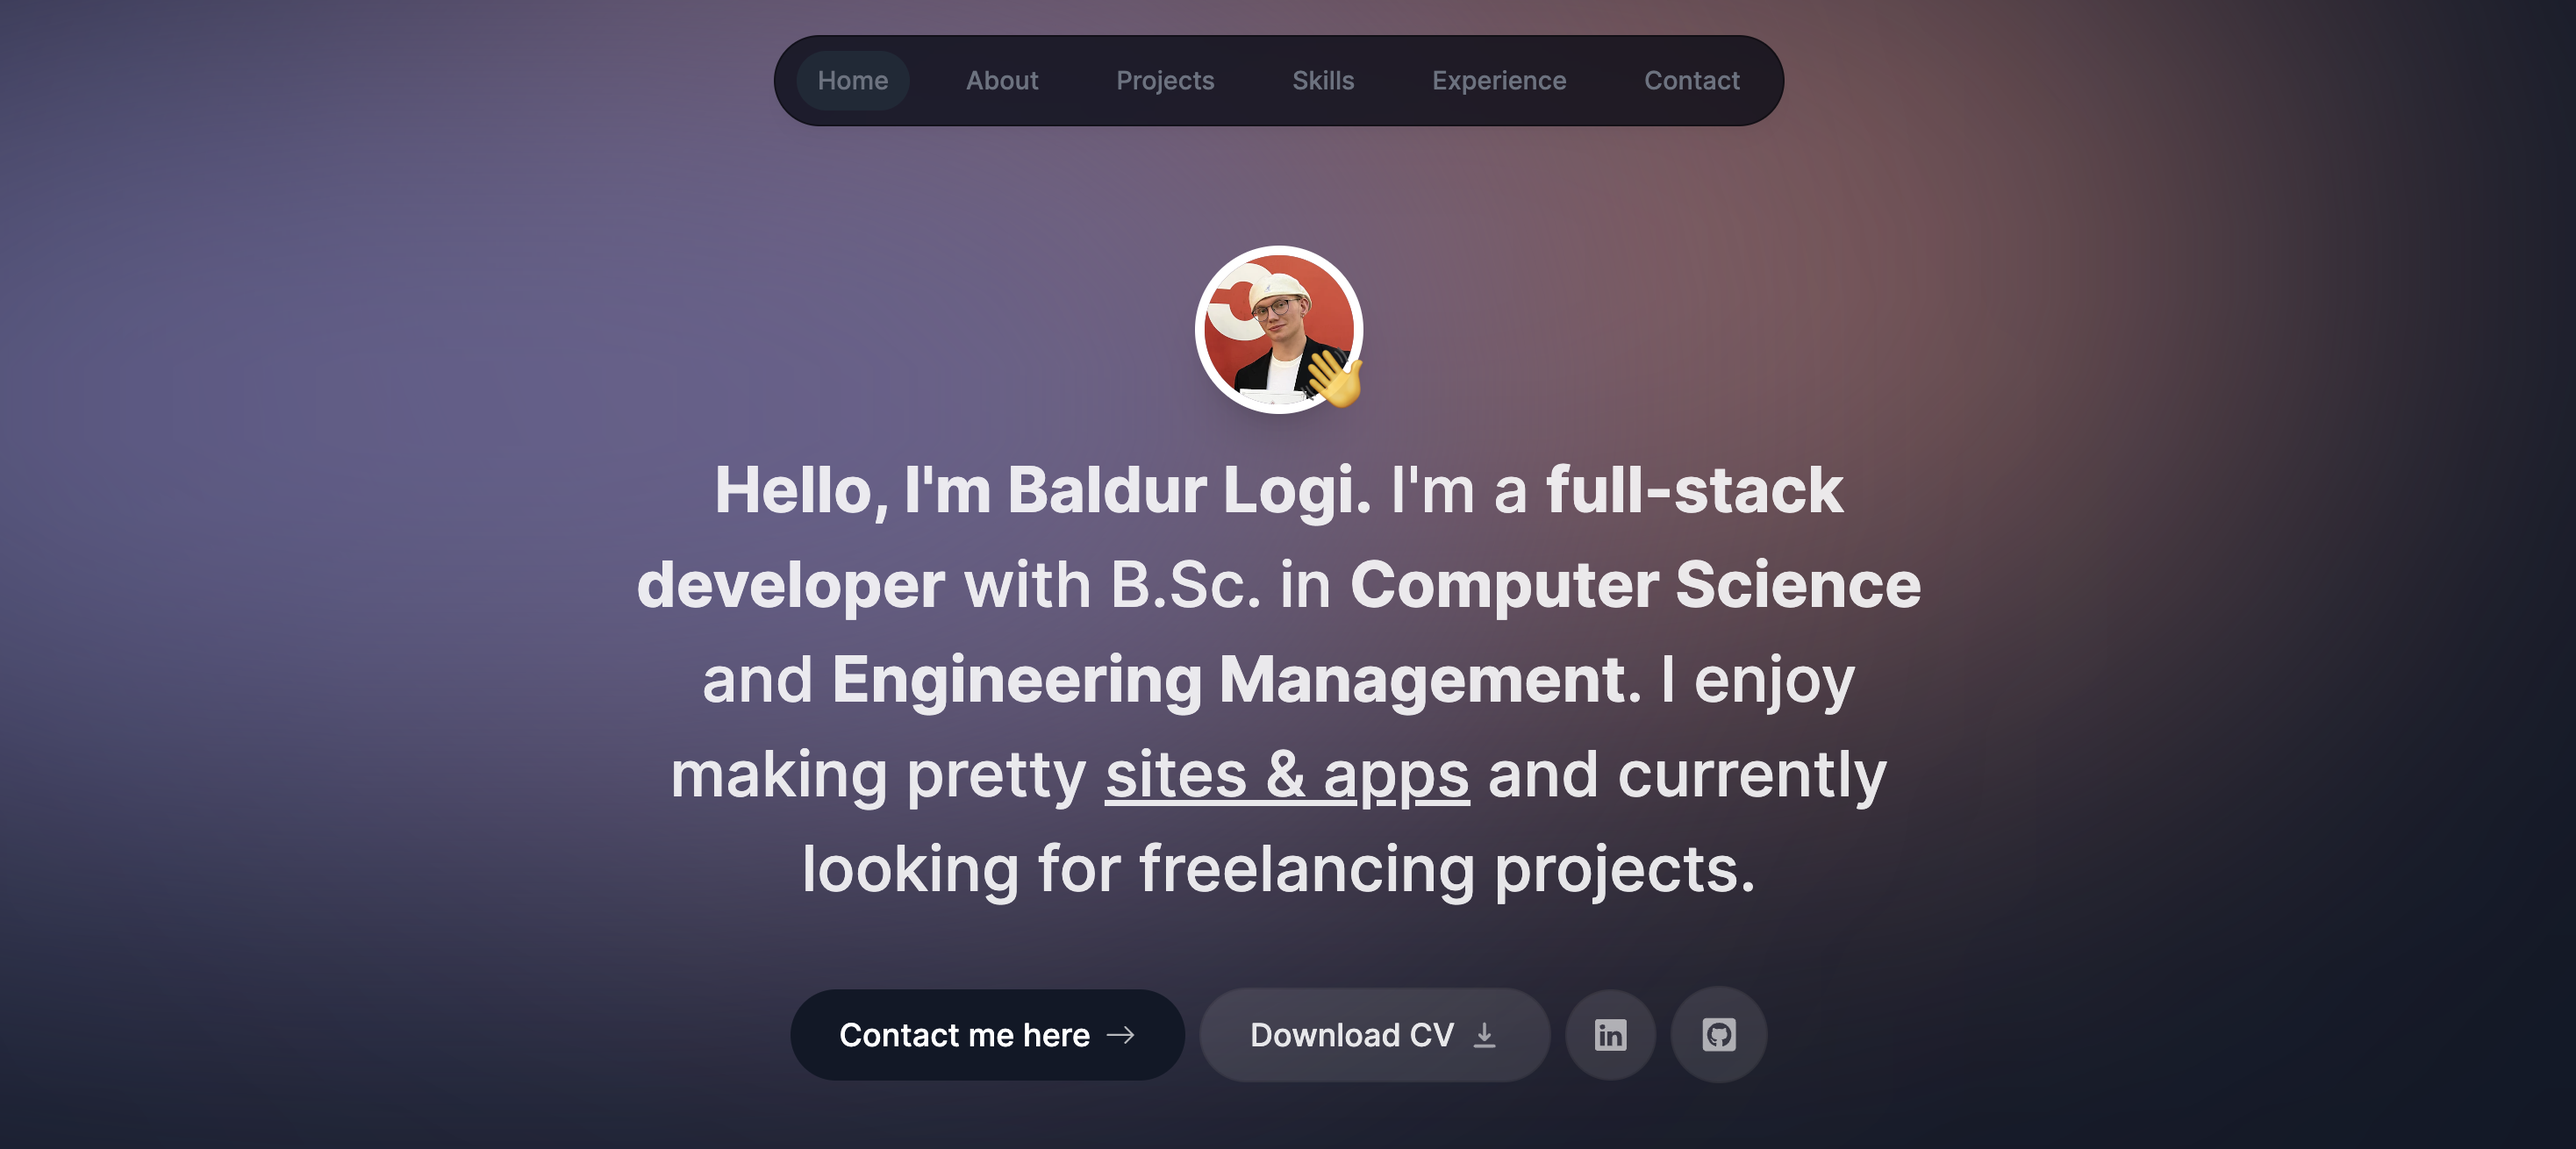
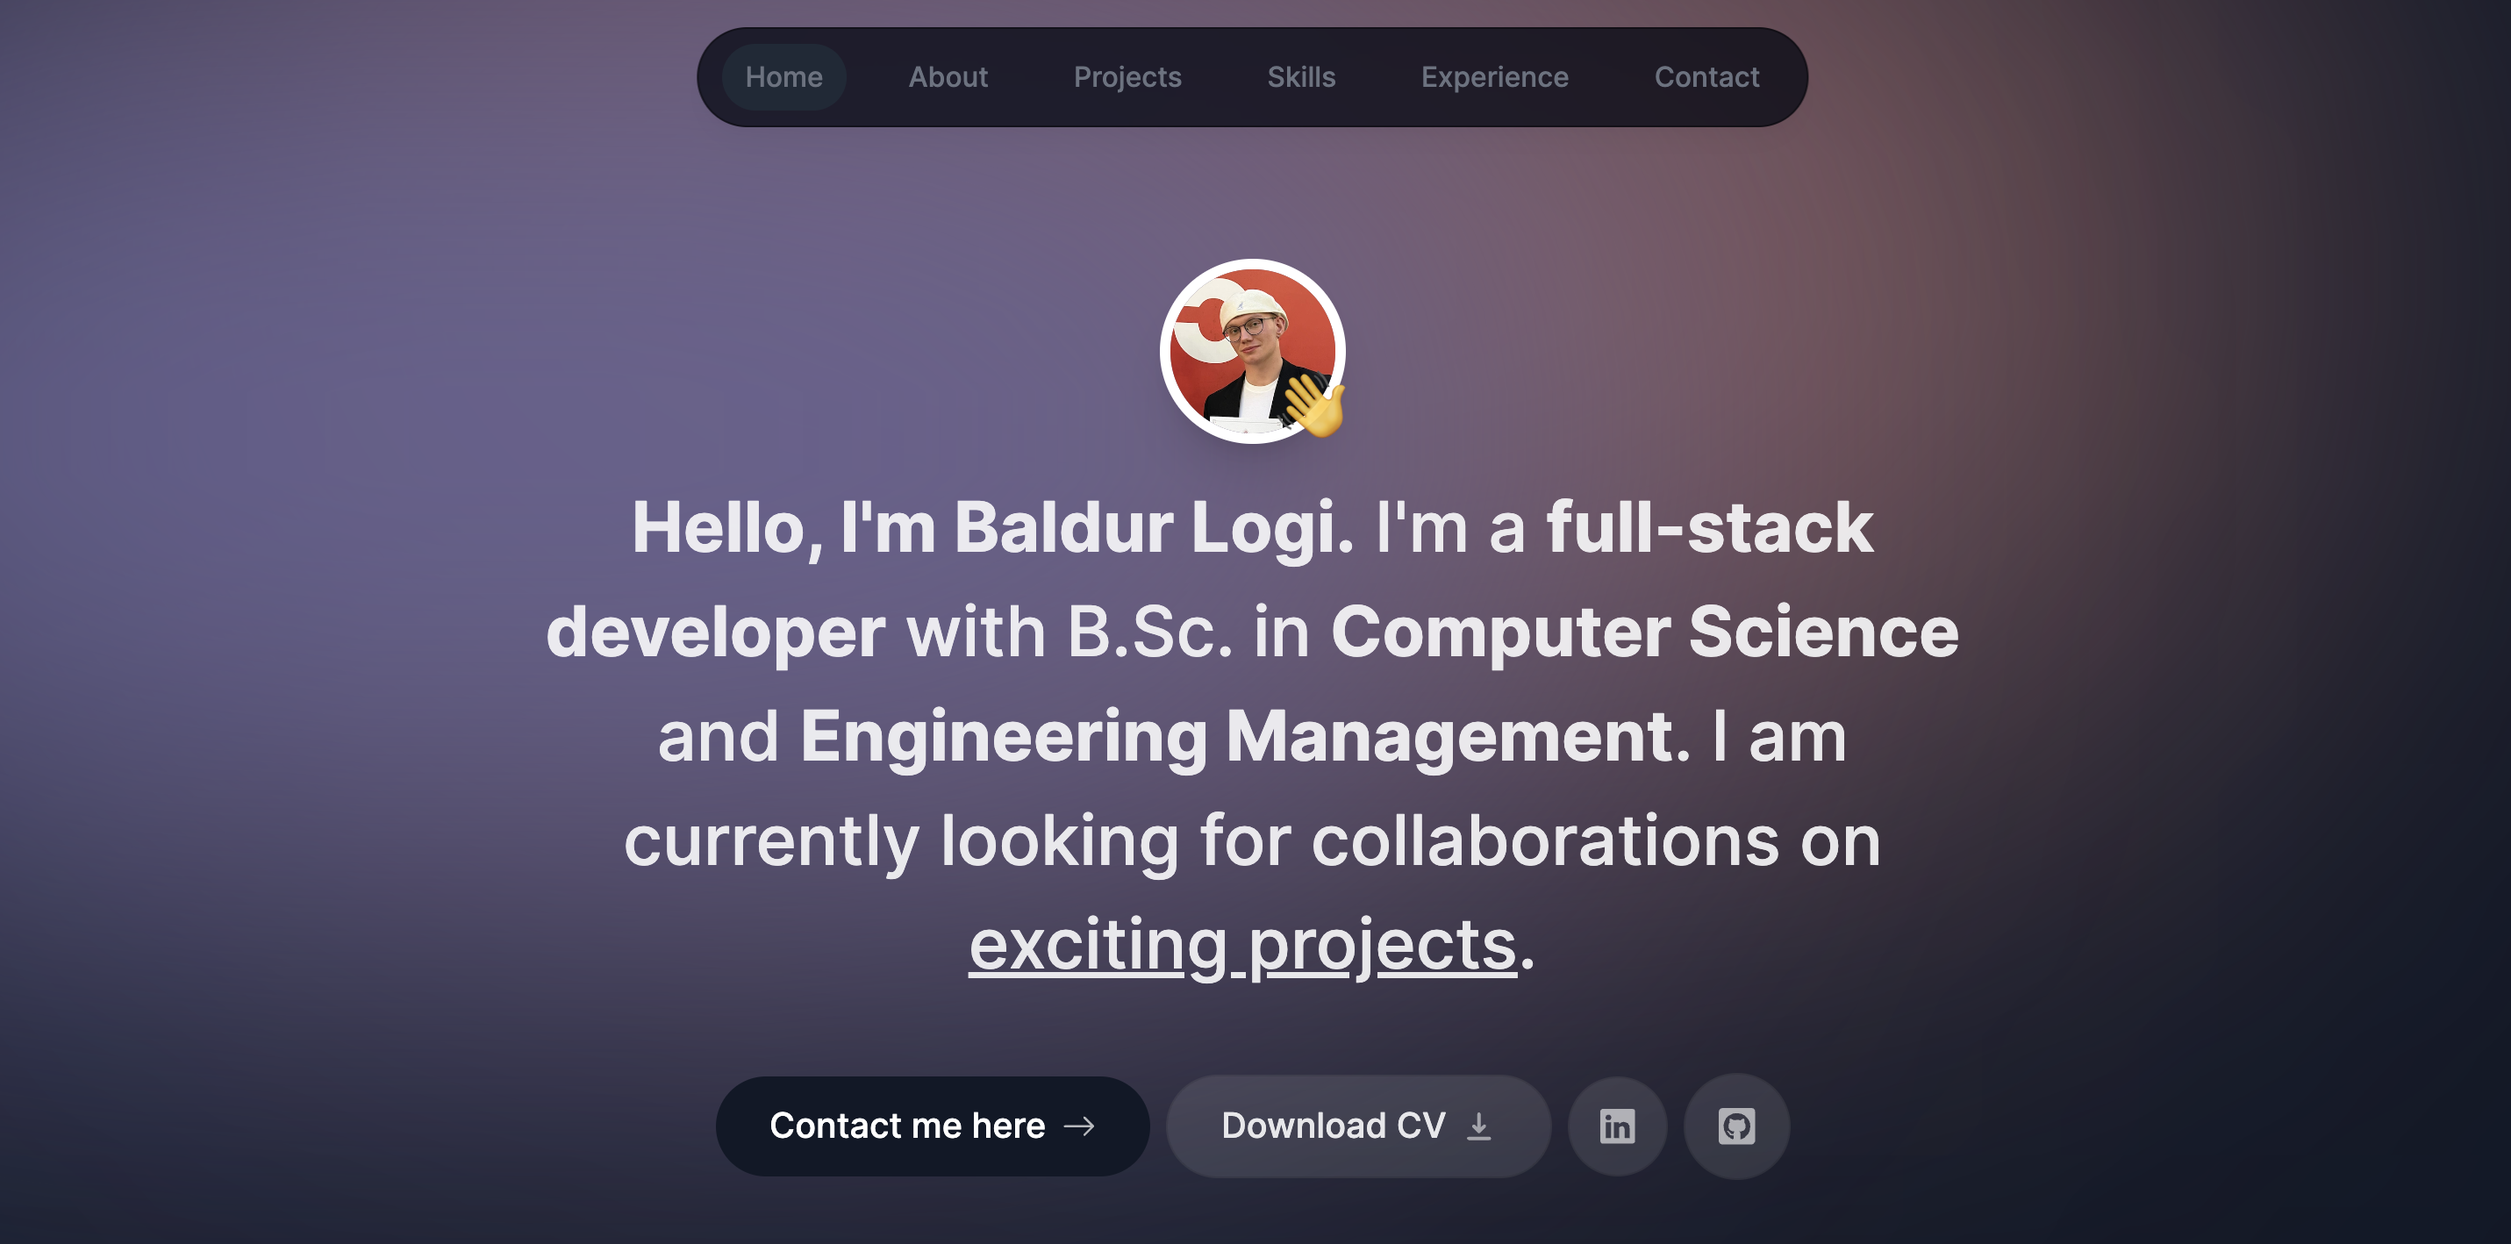
change intro

diff --git a/components/intro.tsx b/components/intro.tsx
@@ -61,8 +61,8 @@ export default function Intro() {
         >
             <span className="font-bold">Hello, I&apos;m Baldur Logi.</span> I&apos;m a{" "}
             <span className="font-bold">full-stack developer</span> with B.Sc. in{" "}
-            <span className="font-bold">Computer Science</span> and <span className="font-bold">Engineering Management</span>. I enjoy
-            making pretty <span className="underline">sites & apps</span> and currently looking for freelancing projects.
+            <span className="font-bold">Computer Science</span> and <span className="font-bold">Engineering Management</span>. 
+            I am currently looking for collaborations on <span className="underline">exciting projects</span>.
         </motion.h1>
 
         <motion.div className='flex flex-col sm:flex-row items-center justify-center gap-2 px-4 text-lg font-medium'
